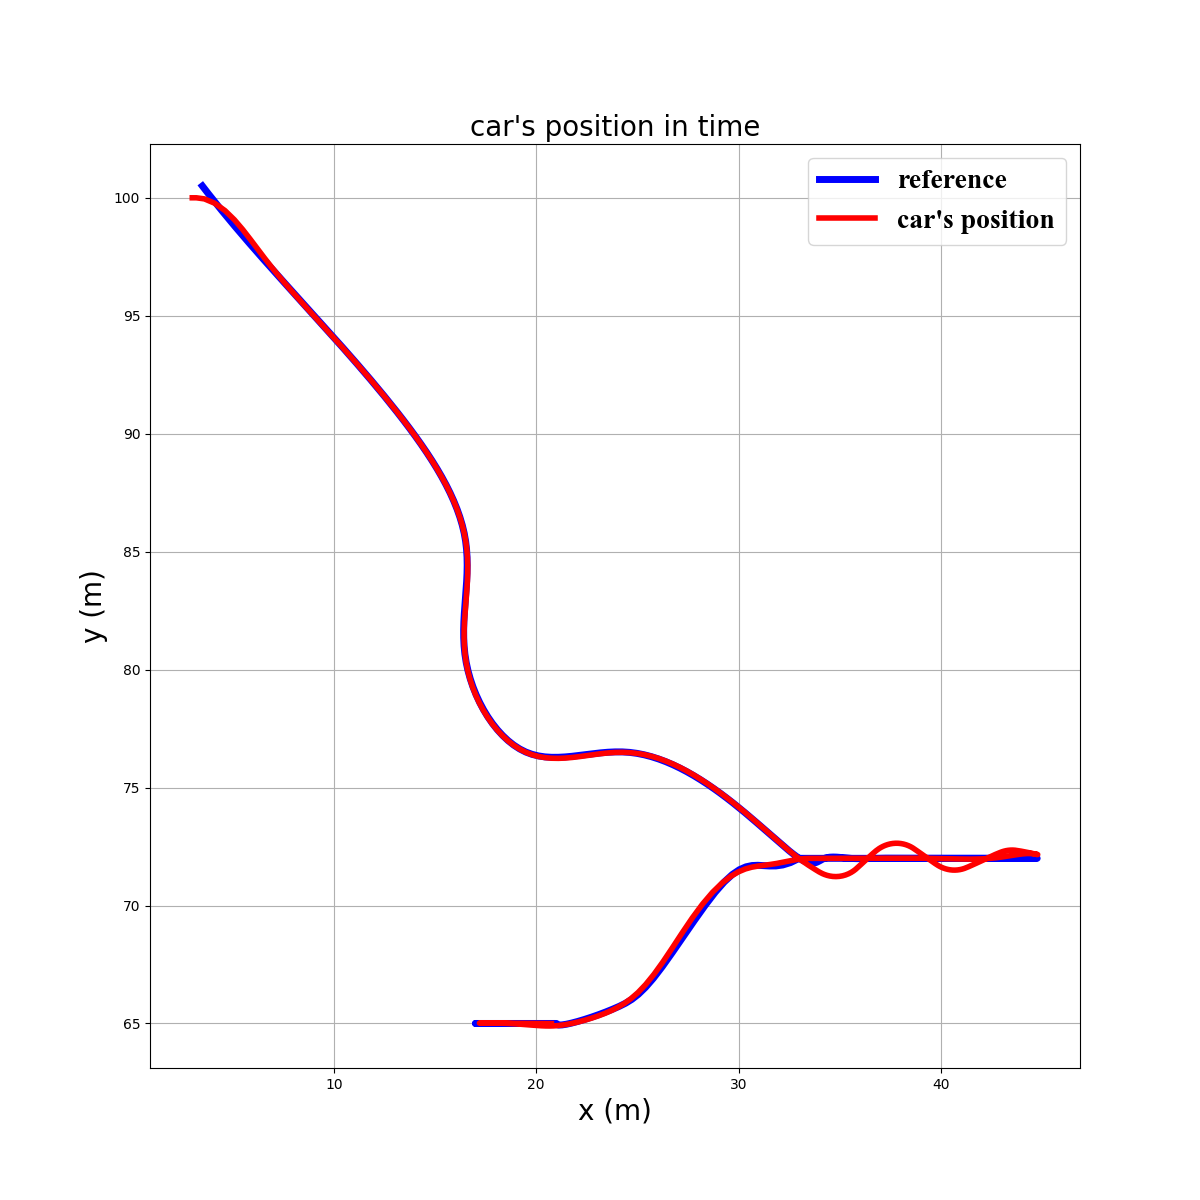
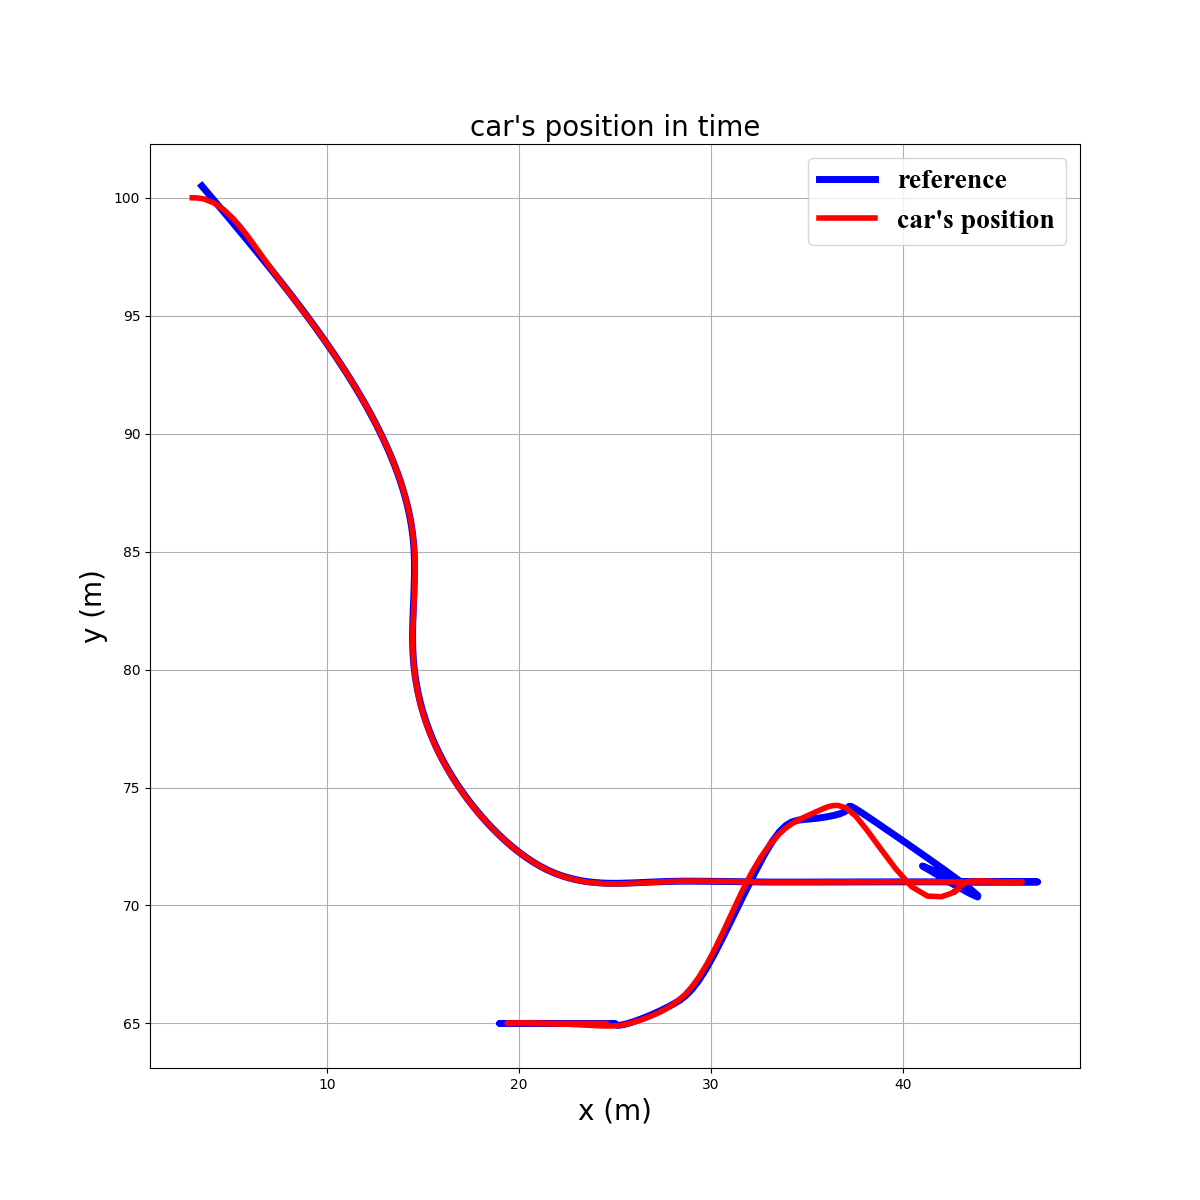
kinda wokring

diff --git a/CAR kinematic model/pathplanning.py b/CAR kinematic model/pathplanning.py
@@ -240,7 +240,7 @@ class PathPlanning:
         self.ox = [int(item) for item in self.obs[:,0]]
         self.oy = [int(item) for item in self.obs[:,1]]
         self.grid_size = 1
-        self.robot_radius = 4
+        self.robot_radius = 6
         self.a_star = AStarPlanner(self.ox, self.oy, self.grid_size, self.robot_radius)
 
     def plan_path(self,sx, sy, gx, gy):    
@@ -281,49 +281,79 @@ class ParkPathPlanning:
 
         s = 4
         l = 8
-        d = 3
-        w = 4
+        d = 4
+        w = 5
+        s2 = 2
+        l2 = 4
+        d2 = 1
+        w2 = 2
 
         x_ensure2 = gx
         y_ensure2 = gy
         x_ensure1 = x_ensure2 + l + s
         y_ensure1 = y_ensure2 + d + w
+        x_ensure0 = x_ensure1 + l2 + s2
+        y_ensure0 = y_ensure1 - d2 - w2
         #Potentailly reverse first array
-        ensure_path1 = np.vstack([np.arange(x_ensure1,x_ensure1+12,0.25),np.repeat(y_ensure1,12/0.25)]).T
-        ensure_path2 = np.vstack([np.arange(x_ensure2-4,x_ensure2,0.25),np.repeat(y_ensure2,4/0.25)]).T
-        park_path = self.plan_park_down_left(x_ensure2, y_ensure2)
+        #The first one goes back a little extra (by 20 units)
+        ensure_path0 = np.vstack([np.arange(x_ensure0-20, x_ensure0 + 5, 1), np.repeat(y_ensure0, 20+5)]).T
+        #Pull back strait, 20 less
+        #At ES1
+        ensure_path1 = np.vstack([np.arange(x_ensure0,x_ensure0+2,0.5),np.repeat(y_ensure0,2/0.5)]).T
+        ensure_path2 = np.vstack([np.arange(x_ensure2-6,x_ensure2,0.5),np.repeat(y_ensure2,6/0.5)]).T
+        park_path = self.plan_park_down_left(x_ensure2, y_ensure2, x_ensure1, y_ensure1, x_ensure0, y_ensure0)
 
-        return np.array([x_ensure1, y_ensure1]), park_path, ensure_path1, ensure_path2
+        return np.array([x_ensure0-22, y_ensure0]), park_path, ensure_path0 ,ensure_path1, ensure_path2
 
-    def plan_park_down_left(self, x1,y1):
-            s = 4
-            l = 8
-            d = 3
-            w = 4
-
-            x0 = x1 + l + s
-            y0 = y1 + d + w
+    def plan_park_down_left(self, x2, y2, x1, y1, x0, y0):
 
             curve_x = np.array([])
             curve_y = np.array([])
-            x = np.arange(x1, x0+1)
-            circle_fun = (6.9 ** 2 - (x - x0) ** 2)
-            y = (np.sqrt(circle_fun[circle_fun >= 0]) + y0 - 6.9)
+
+            sixdot_nine_a = 3.3  # Increase number to make middle slower
+
+            x = np.arange(x1, x0 + 1)
+            circle_fun = (sixdot_nine_a ** 2 - (x - x0) ** 2)
+            y = (np.sqrt(circle_fun[circle_fun >= 0]) + y0 + sixdot_nine_a)
+            x = x[circle_fun >= 0]  # circle_fun > 0 means this x point  is part of the circle
+            y = (y - 2 * (y - (y0 + sixdot_nine_a))) #only needed for mirror
+            choices = y < y0 + sixdot_nine_a / 2 #Possible Mirror
+            x = x[choices]
+            y = y[choices]
+            curve_x = np.append(curve_x, x)
+            curve_y = np.append(curve_y, y)
+
+            x = np.arange(x1, x0 + 1)
+            circle_fun = (sixdot_nine_a ** 2 - (x - x1) ** 2)
+            y = (np.sqrt(circle_fun[circle_fun >= 0]) + y1 - sixdot_nine_a)
+            x = x[circle_fun >= 0]
+            # y = (y - 2 * (y - (y1 + sixdot_nine_a))) #mirror only
+            choices = y > y1 - sixdot_nine_a / 2
+            x = x[choices]
+            y = y[choices]
+            curve_x = np.append(curve_x, x)
+            curve_y = np.append(curve_y, y)
+
+            sixdot_nine_b = 6 #Increase number to make middle slower
+
+            x = np.arange(x2, x1 + 1)
+            circle_fun = (sixdot_nine_b ** 2 - (x - x1) ** 2)
+            y = (np.sqrt(circle_fun[circle_fun >= 0]) + y1 - sixdot_nine_b)
             x = x[circle_fun >= 0] #circle_fun > 0 means this x point  is part of the circle
             # y = (y - 2 * (y - (y0 - 6.9))) #only needed for mirror
-            choices = y > y0 - 6.9 / 2
+            choices = y > y1 - sixdot_nine_b / 2
             x = x[choices]
             y = y[choices]
             curve_x = np.append(curve_x, x[::-1])
             curve_y = np.append(curve_y, y[::-1])
 
 
-            x = np.arange(x1, x0+1)
-            circle_fun = (6.9 ** 2 - (x - x1) ** 2)
-            y = (np.sqrt(circle_fun[circle_fun >= 0]) + y1 + 6.9)
+            x = np.arange(x2, x1 + 1)
+            circle_fun = (sixdot_nine_b ** 2 - (x - x2) ** 2)
+            y = (np.sqrt(circle_fun[circle_fun >= 0]) + y2 + sixdot_nine_b)
             x = x[circle_fun >= 0]
-            y = (y-2*(y-(y1+6.9)))
-            choices = y < y1 + 6.9 / 2
+            y = (y - 2 * (y - (y2 + sixdot_nine_b)))
+            choices = y < y2 + sixdot_nine_b / 2
             x = x[choices]
             y = y[choices]
             curve_x = np.append(curve_x, x[::-1])

diff --git a/CAR kinematic model/main_autopark.py b/CAR kinematic model/main_autopark.py
@@ -66,21 +66,24 @@ if __name__ == '__main__':
     path_planner = PathPlanning(obs)
 
     print('planning park scenario ...')
-    new_end, park_path, ensure_path1, ensure_path2 = park_path_planner.generate_park_scenario(int(start[0]),int(start[1]),int(end[0]),int(end[1]))
+    new_end, park_path, ensure_path0, ensure_path1, ensure_path2 = park_path_planner.generate_park_scenario(int(start[0]),int(start[1]),int(end[0]),int(end[1]))
     
     print('routing to destination ...')
     path = path_planner.plan_path(int(start[0]),int(start[1]),int(new_end[0]),int(new_end[1]))
-    path = np.vstack([path, ensure_path1])
+    path = np.vstack([path, ensure_path0])
 
     print('interpolating ...')
     interpolated_path = interpolate_path(path, sample_rate=5)
+    # interpolated_path = path
     interpolated_park_path = interpolate_path(park_path, sample_rate=2)
+    # interpolated_park_path = park_path
     interpolated_park_path = np.vstack([ensure_path1[::-1], interpolated_park_path, ensure_path2[::-1]])
 
     env.draw_path(interpolated_path)
     env.draw_path(interpolated_park_path)
 
     final_path = np.vstack([interpolated_path, interpolated_park_path, ensure_path2])
+    # final_path = np.vstack([interpolated_path])
 
     #############################################################################################
 

diff --git a/CAR kinematic model/environment.py b/CAR kinematic model/environment.py
@@ -117,7 +117,7 @@ class Environment:
 class Parking1:
     def __init__(self, car_pos):
         self.car_obstacle_hori = self.make_car_hori()
-        self.walls = [[50,i] for i in range(-10, 100)] +\
+        self.walls = [[70,i] for i in range(-10, 100)] +\
                      [[i,55] for i in range(-10, 100)] + \
                      [[i, 90] for i in range(20, 40)] +\
                      [[i,80] for i in range(20, 40)] + \
@@ -126,7 +126,7 @@ class Parking1:
                      # [[20, i] for i in range(20, 40)]
             # self.walls = [0,100]
         self.obs = np.array(self.walls)
-        self.cars = {1 : [[21,65]],2 : [[5,65]],3 : [[40,65]]}
+        self.cars = {1 : [[25,65]],2 : [[5,65]],3 : [[40,65]]}
         self.end = self.cars[car_pos][0]
         self.cars.pop(car_pos)
 
